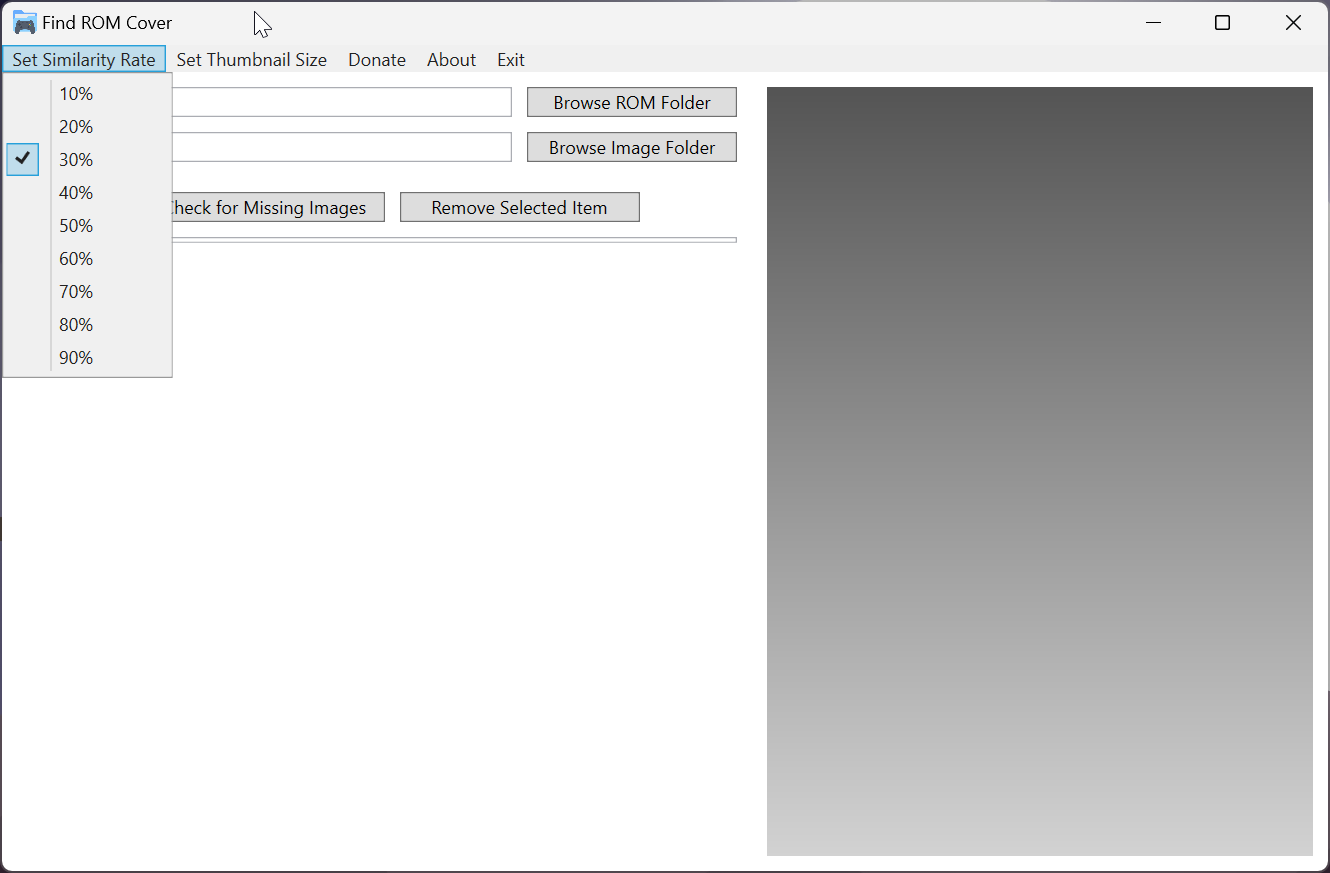
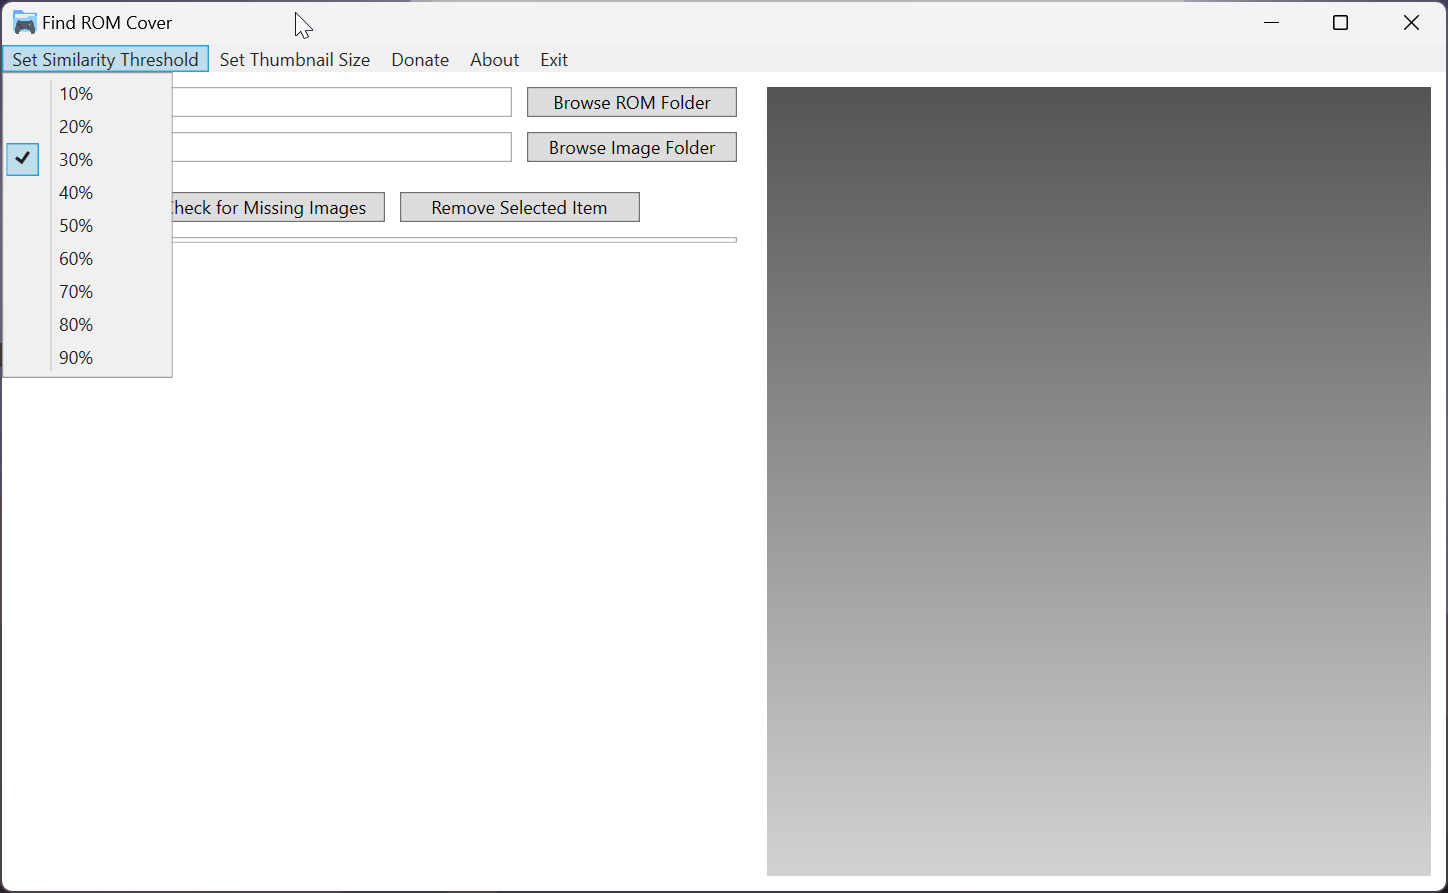
fix

Changed region(s): [[0.0, 0.0, 0.5857, 0.9897], [0.9865, 0.0928, 1.0, 0.8351], [0.9556, 0.0, 0.9865, 0.0309]]

diff --git a/FindRomCover/MainWindow.xaml b/FindRomCover/MainWindow.xaml
@@ -58,50 +58,50 @@
             Grid.Row="0"
             Grid.ColumnSpan="2"
             VerticalAlignment="Top">
-            <MenuItem x:Name="MySimilarityMenu" Header="Set Similarity Rate">
+            <MenuItem x:Name="MySimilarityMenu" Header="Set Similarity Threshold">
                 <MenuItem
                     x:Name="Menu10"
-                    Click="SetSimilarityRate_Click"
+                    Click="SetSimilarityThreshold_Click"
                     Header="10%"
                     IsCheckable="True" />
                 <MenuItem
                     x:Name="Menu20"
-                    Click="SetSimilarityRate_Click"
+                    Click="SetSimilarityThreshold_Click"
                     Header="20%"
                     IsCheckable="True" />
                 <MenuItem
                     x:Name="Menu30"
-                    Click="SetSimilarityRate_Click"
+                    Click="SetSimilarityThreshold_Click"
                     Header="30%"
                     IsCheckable="True" />
                 <MenuItem
                     x:Name="Menu40"
-                    Click="SetSimilarityRate_Click"
+                    Click="SetSimilarityThreshold_Click"
                     Header="40%"
                     IsCheckable="True" />
                 <MenuItem
                     x:Name="Menu50"
-                    Click="SetSimilarityRate_Click"
+                    Click="SetSimilarityThreshold_Click"
                     Header="50%"
                     IsCheckable="True" />
                 <MenuItem
                     x:Name="Menu60"
-                    Click="SetSimilarityRate_Click"
+                    Click="SetSimilarityThreshold_Click"
                     Header="60%"
                     IsCheckable="True" />
                 <MenuItem
                     x:Name="Menu70"
-                    Click="SetSimilarityRate_Click"
+                    Click="SetSimilarityThreshold_Click"
                     Header="70%"
                     IsCheckable="True" />
                 <MenuItem
                     x:Name="Menu80"
-                    Click="SetSimilarityRate_Click"
+                    Click="SetSimilarityThreshold_Click"
                     Header="80%"
                     IsCheckable="True" />
                 <MenuItem
                     x:Name="Menu90"
-                    Click="SetSimilarityRate_Click"
+                    Click="SetSimilarityThreshold_Click"
                     Header="90%"
                     IsCheckable="True" />
             </MenuItem>

diff --git a/FindRomCover/MainWindow.xaml.cs b/FindRomCover/MainWindow.xaml.cs
@@ -331,7 +331,7 @@ namespace FindRomCover
             }
         }
 
-        private void SetSimilarityRate_Click(object sender, RoutedEventArgs e)
+        private void SetSimilarityThreshold_Click(object sender, RoutedEventArgs e)
         {
             if (sender is MenuItem clickedItem)
             {

diff --git a/README.md b/README.md
@@ -1,39 +1,41 @@
 # Find ROM Cover
 
-Find ROM Cover is an easy-to-use application designed to help you effortlessly rename and organize Cover Images for your ROM collection.<br>
-No need to manually rename your images to match the ROM filename.<br>
+Find ROM Cover is an easy-to-use application designed to help you effortlessly rename and organize cover images for your ROM collection. There's no need to manually rename your images to match the filenames of your ROMs.
+
+
 
 ## How It Works:
 
 - **Browse:** Select the folders where your ROMs and cover images are stored.
 
-- **List:** List which cover images is missing for your ROM collection.
+- **List:** List which cover images are missing for your ROM collection.
 
-- **Match:** Search inside the Imagem Cover folder for a Imagem with a similar filename. Adjust the similarity threshold to get the best matches.
+- **Match:** Search within the Cover Image folder for an image with a similar filename. Adjust the similarity threshold to find the best matches.
 
-- **Display:** Will display on the right panel suggestions of cover images for the selected ROM. You can change the size of the image previews.
+- **Display:** Displays suggestions for cover images on the right panel for the selected ROM. You can adjust the size of the image previews.
 
 - **Organize:** Manually select the best cover images from the suggestions provided.
 
-- **Copy:** Click on the image to copy the image to the Image Cover folder renaming the Image to the same name as the ROM file.
+- **Copy:** Click on the image to copy it to the Cover Image folder, renaming the image to match the ROM file name.
+
 
 ## Features:
 
 - **Easy ROM and Cover Image Matching:** Automatically matches your ROM files with their corresponding cover images based on name similarity.
 
-- **Adjustable Similarity Rate:** Fine-tune how strict the matching criteria should be. Whether you prefer exact matches or broader suggestions, you have control.
+- **Adjustable Similarity Threshold:** Fine-tune how strict the matching criteria should be. Whether you prefer exact matches or broader suggestions, you have the control.
 
 - **Thumbnail Size Customization:** Choose how large or small you want the cover image thumbnails to appear, making it easier to view and select the right covers.
 
 - **Manual Selection:** Browse through suggested images and pick the perfect cover for each ROM, ensuring your collection looks exactly how you want it.
 
-- **Missing Image Finder:** Quickly identify which ROMs are missing cover images, so you can focus on completing your collection of images.
+- **Missing Image Finder:** Quickly identify which ROMs are missing cover images, helping you complete your collection.
 
-- **Simple Interface:** Designed with ease of use in mind, making it accessible for everyone, regardless of your tech-savviness.
+- **Simple Interface:** Designed for ease of use, making it accessible to everyone, regardless of tech-savviness.
 
 ## Where can I find ROM Cover Images?
 
-You can find cover images on websites like https://github.com/libretro-thumbnails/libretro-thumbnails or https://emumovies.com/, which I am not affiliated with.
+You can find cover images on websites such as [Libretro Thumbnails](https://github.com/libretro-thumbnails/libretro-thumbnails) and [EmuMovies](https://emumovies.com/), with which I have no affiliation.
 
 ## Screenshots:
 
@@ -49,15 +51,15 @@ You can find cover images on websites like https://github.com/libretro-thumbnail
 
 ## Support the Project:
 
-Did you like Find ROM Cover? Consider [donating](https://www.buymeacoffee.com/purelogiccode) to support the project or just say thanks!
+Did you enjoy using Find ROM Cover? Consider [donating](https://www.buymeacoffee.com/purelogiccode) to support the project or simply to say thanks!
 
 ## Developer:
 
-This project was created by a [Simple Launcher](https://github.com/drpetersonfernandes/SimpleLauncher) developer to help him organize his Image Cover collection.
+This project was developed by a [Simple Launcher](https://github.com/drpetersonfernandes/SimpleLauncher) developer to assist in organizing his cover image collection.
 
-- **Peterson Fernandes** - [Github Profile](https://github.com/drpetersonfernandes)
+Peterson Fernandes - [Github Profile](https://github.com/drpetersonfernandes)
 
 ## Technical Details:
 
-Find Rom Cover was written in C# using Microsoft Visual Studio Community 2022 (64-bit) and the Windows Presentation Foundation (WPF) Framework with Microsoft .NET 8.0.<br>
-This program is Windows-only. Compatibility with Windows 7 and later versions is expected. It has been tested on Windows 11.
+Find ROM Cover was written in C# using Microsoft Visual Studio Community 2022 (64-bit) and the Windows Presentation Foundation (WPF) framework with Microsoft .NET 8.0.<br>
+This program is designed exclusively for Windows, with compatibility expected from Windows 7 and later versions. It has been tested on Windows 11.
